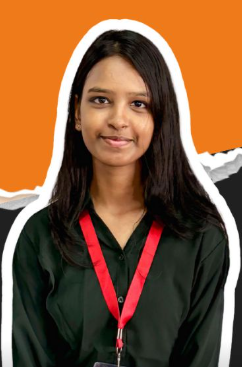
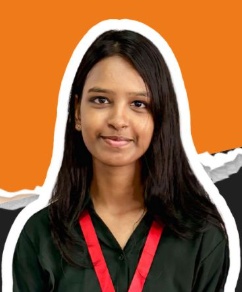
Executives pictures updated

diff --git a/pages/contactPage/contact.html b/pages/contactPage/contact.html
@@ -205,7 +205,7 @@
                                 <span class="overlay"></span>
             
                                 <div class="card-image">
-                                    <img src="../images/shivam kumar.jpg" alt="" class="card-img">
+                                    <img src="../images/shivam kumar.png" alt="" class="card-img">
                                 </div>
                             </div>
             
@@ -225,7 +225,7 @@
                                 <span class="overlay"></span>
             
                                 <div class="card-image">
-                                    <img src="../images/atabi debnath.jpg" alt="" class="card-img">
+                                    <img src="../images/atabi debnath.png" alt="" class="card-img">
                                 </div>
                             </div>
             
@@ -245,7 +245,7 @@
                                 <span class="overlay"></span>
             
                                 <div class="card-image">
-                                    <img src="../images/vivek.jpg" alt="" class="card-img">
+                                    <img src="../images/vivek.png" alt="" class="card-img">
                                 </div>
                             </div>
             
@@ -303,7 +303,7 @@
                                 <span class="overlay"></span>
             
                                 <div class="card-image">
-                                    <img src="../images/dakoji karthik.jpg" alt="" class="card-img">
+                                    <img src="../images/dakoji karthik.png" alt="" class="card-img">
                                 </div>
                             </div>
             
@@ -325,7 +325,7 @@
                                 <span class="overlay"></span>
             
                                 <div class="card-image">
-                                    <img src="../images/siddharth kumar.jpg" alt="" class="card-img">
+                                    <img src="../images/siddharth kumar.png" alt="" class="card-img">
                                 </div>
                             </div>
             
